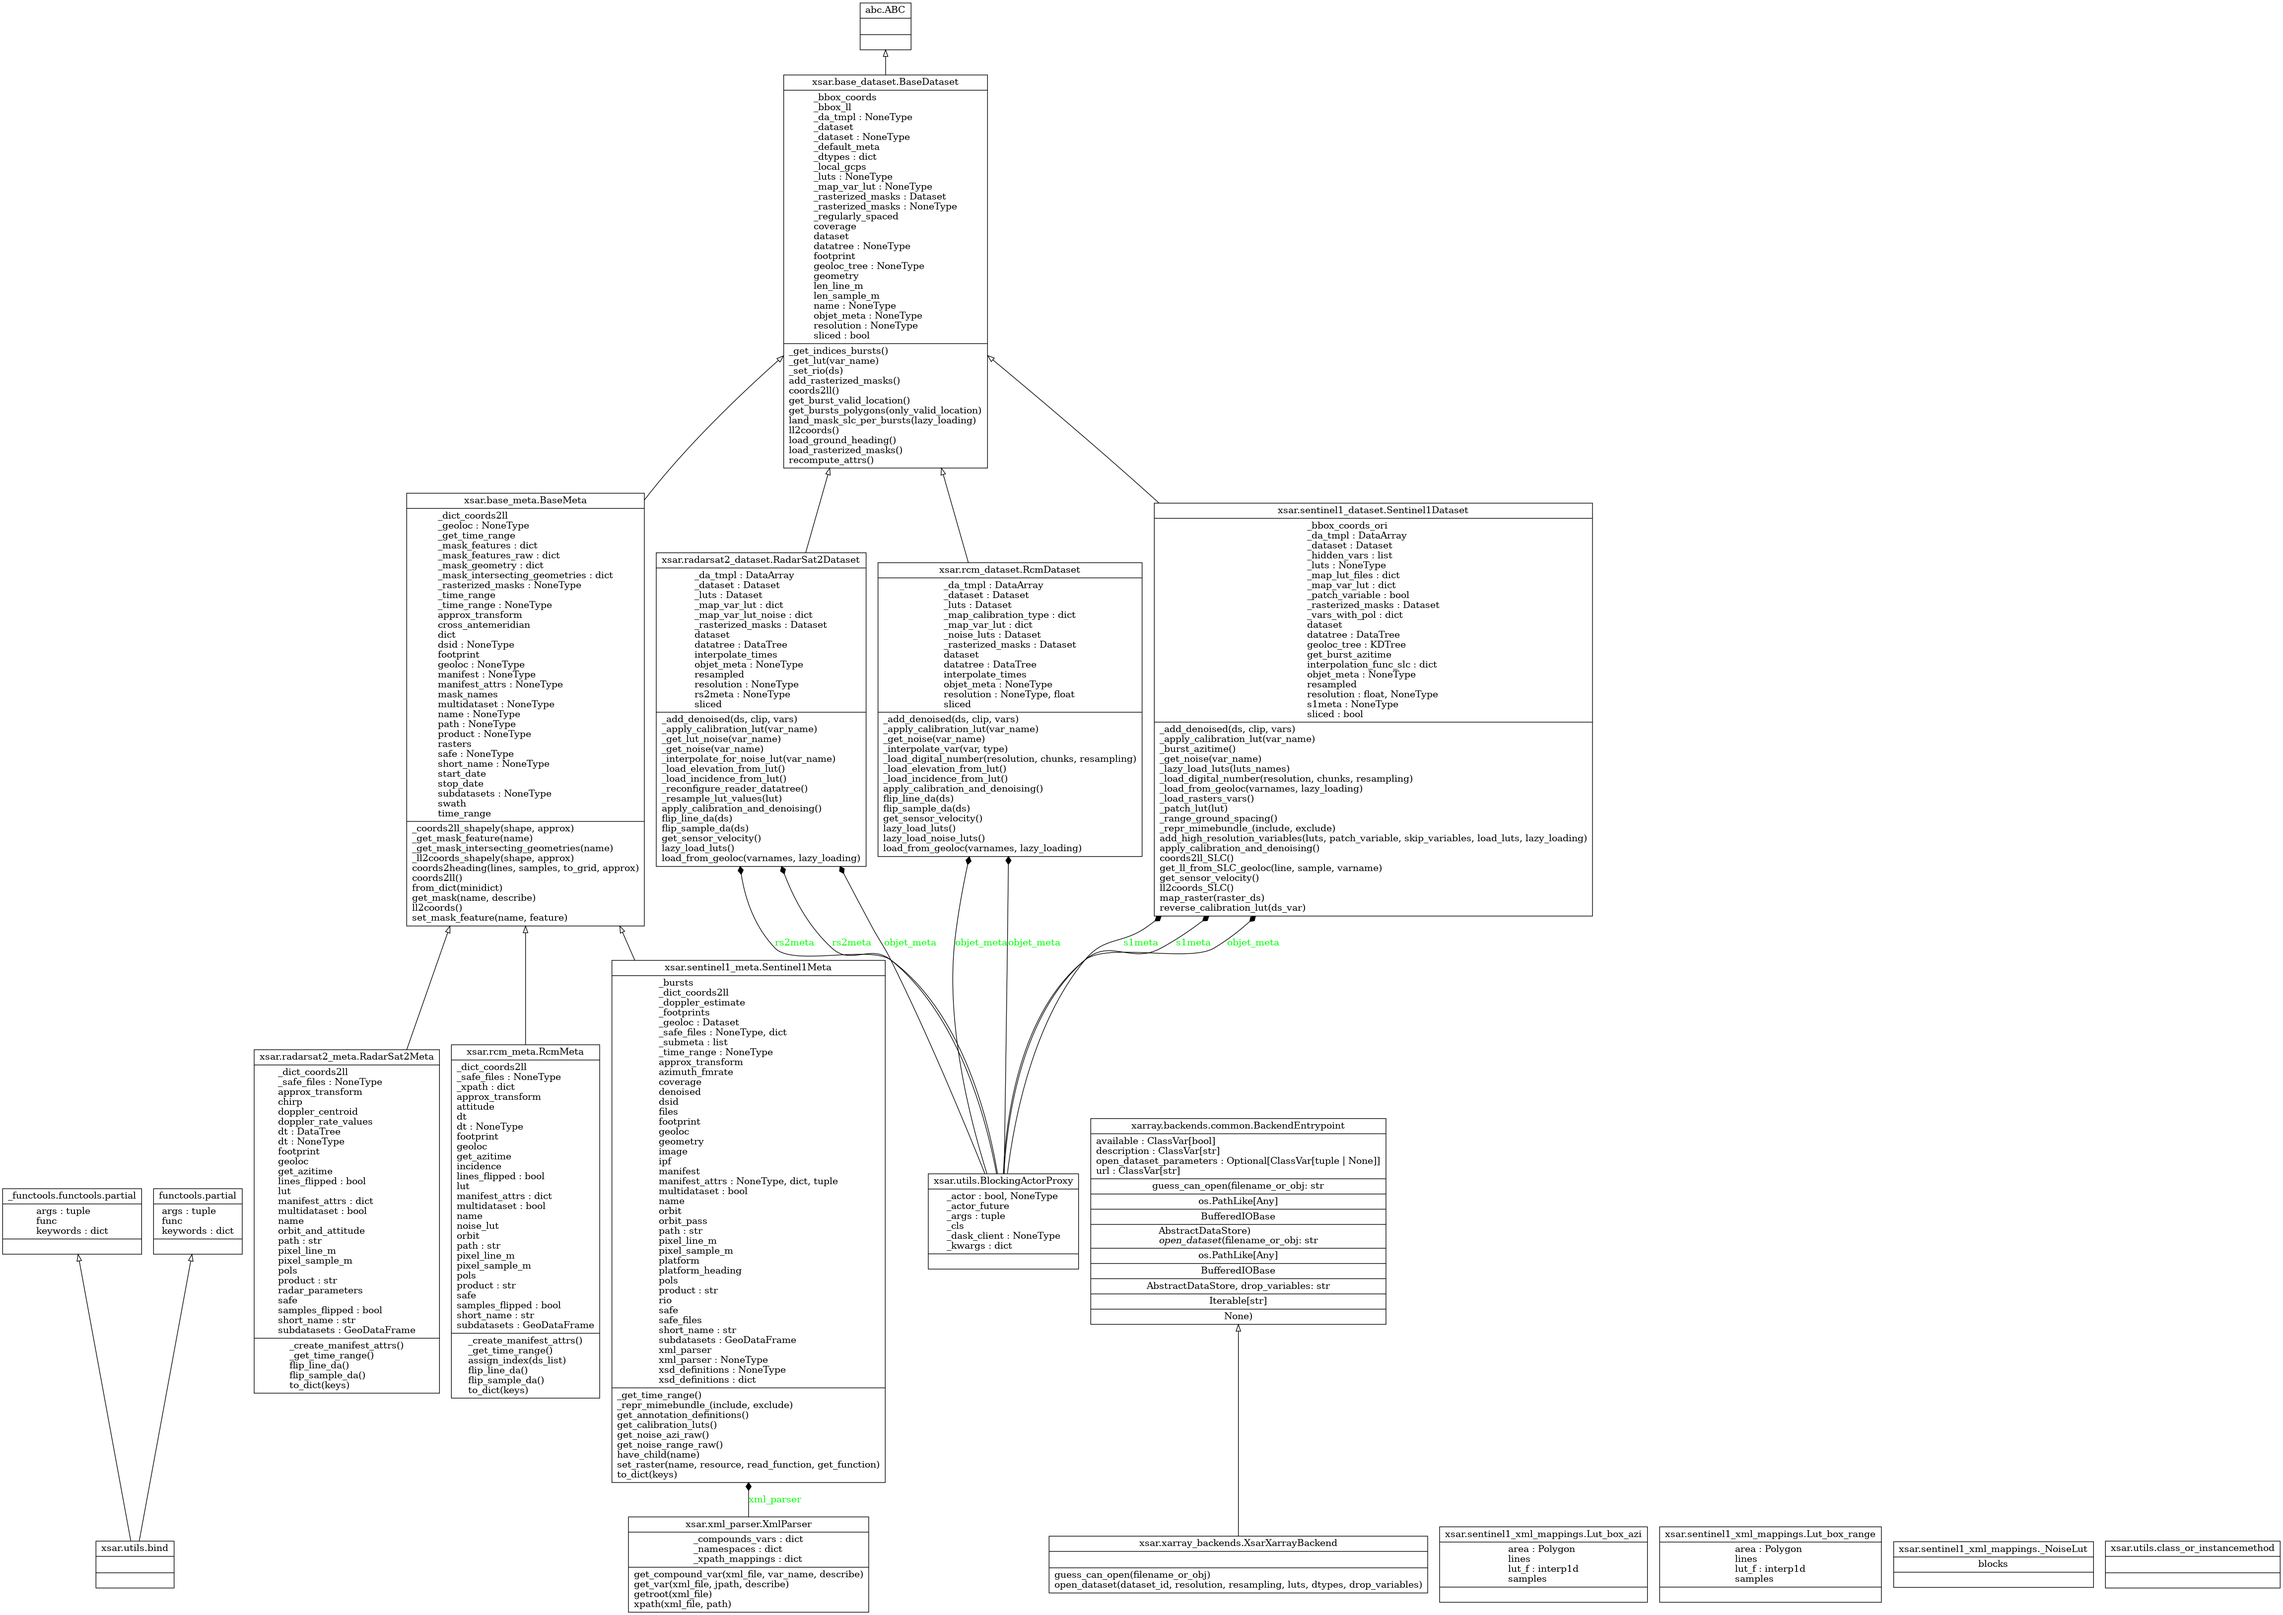
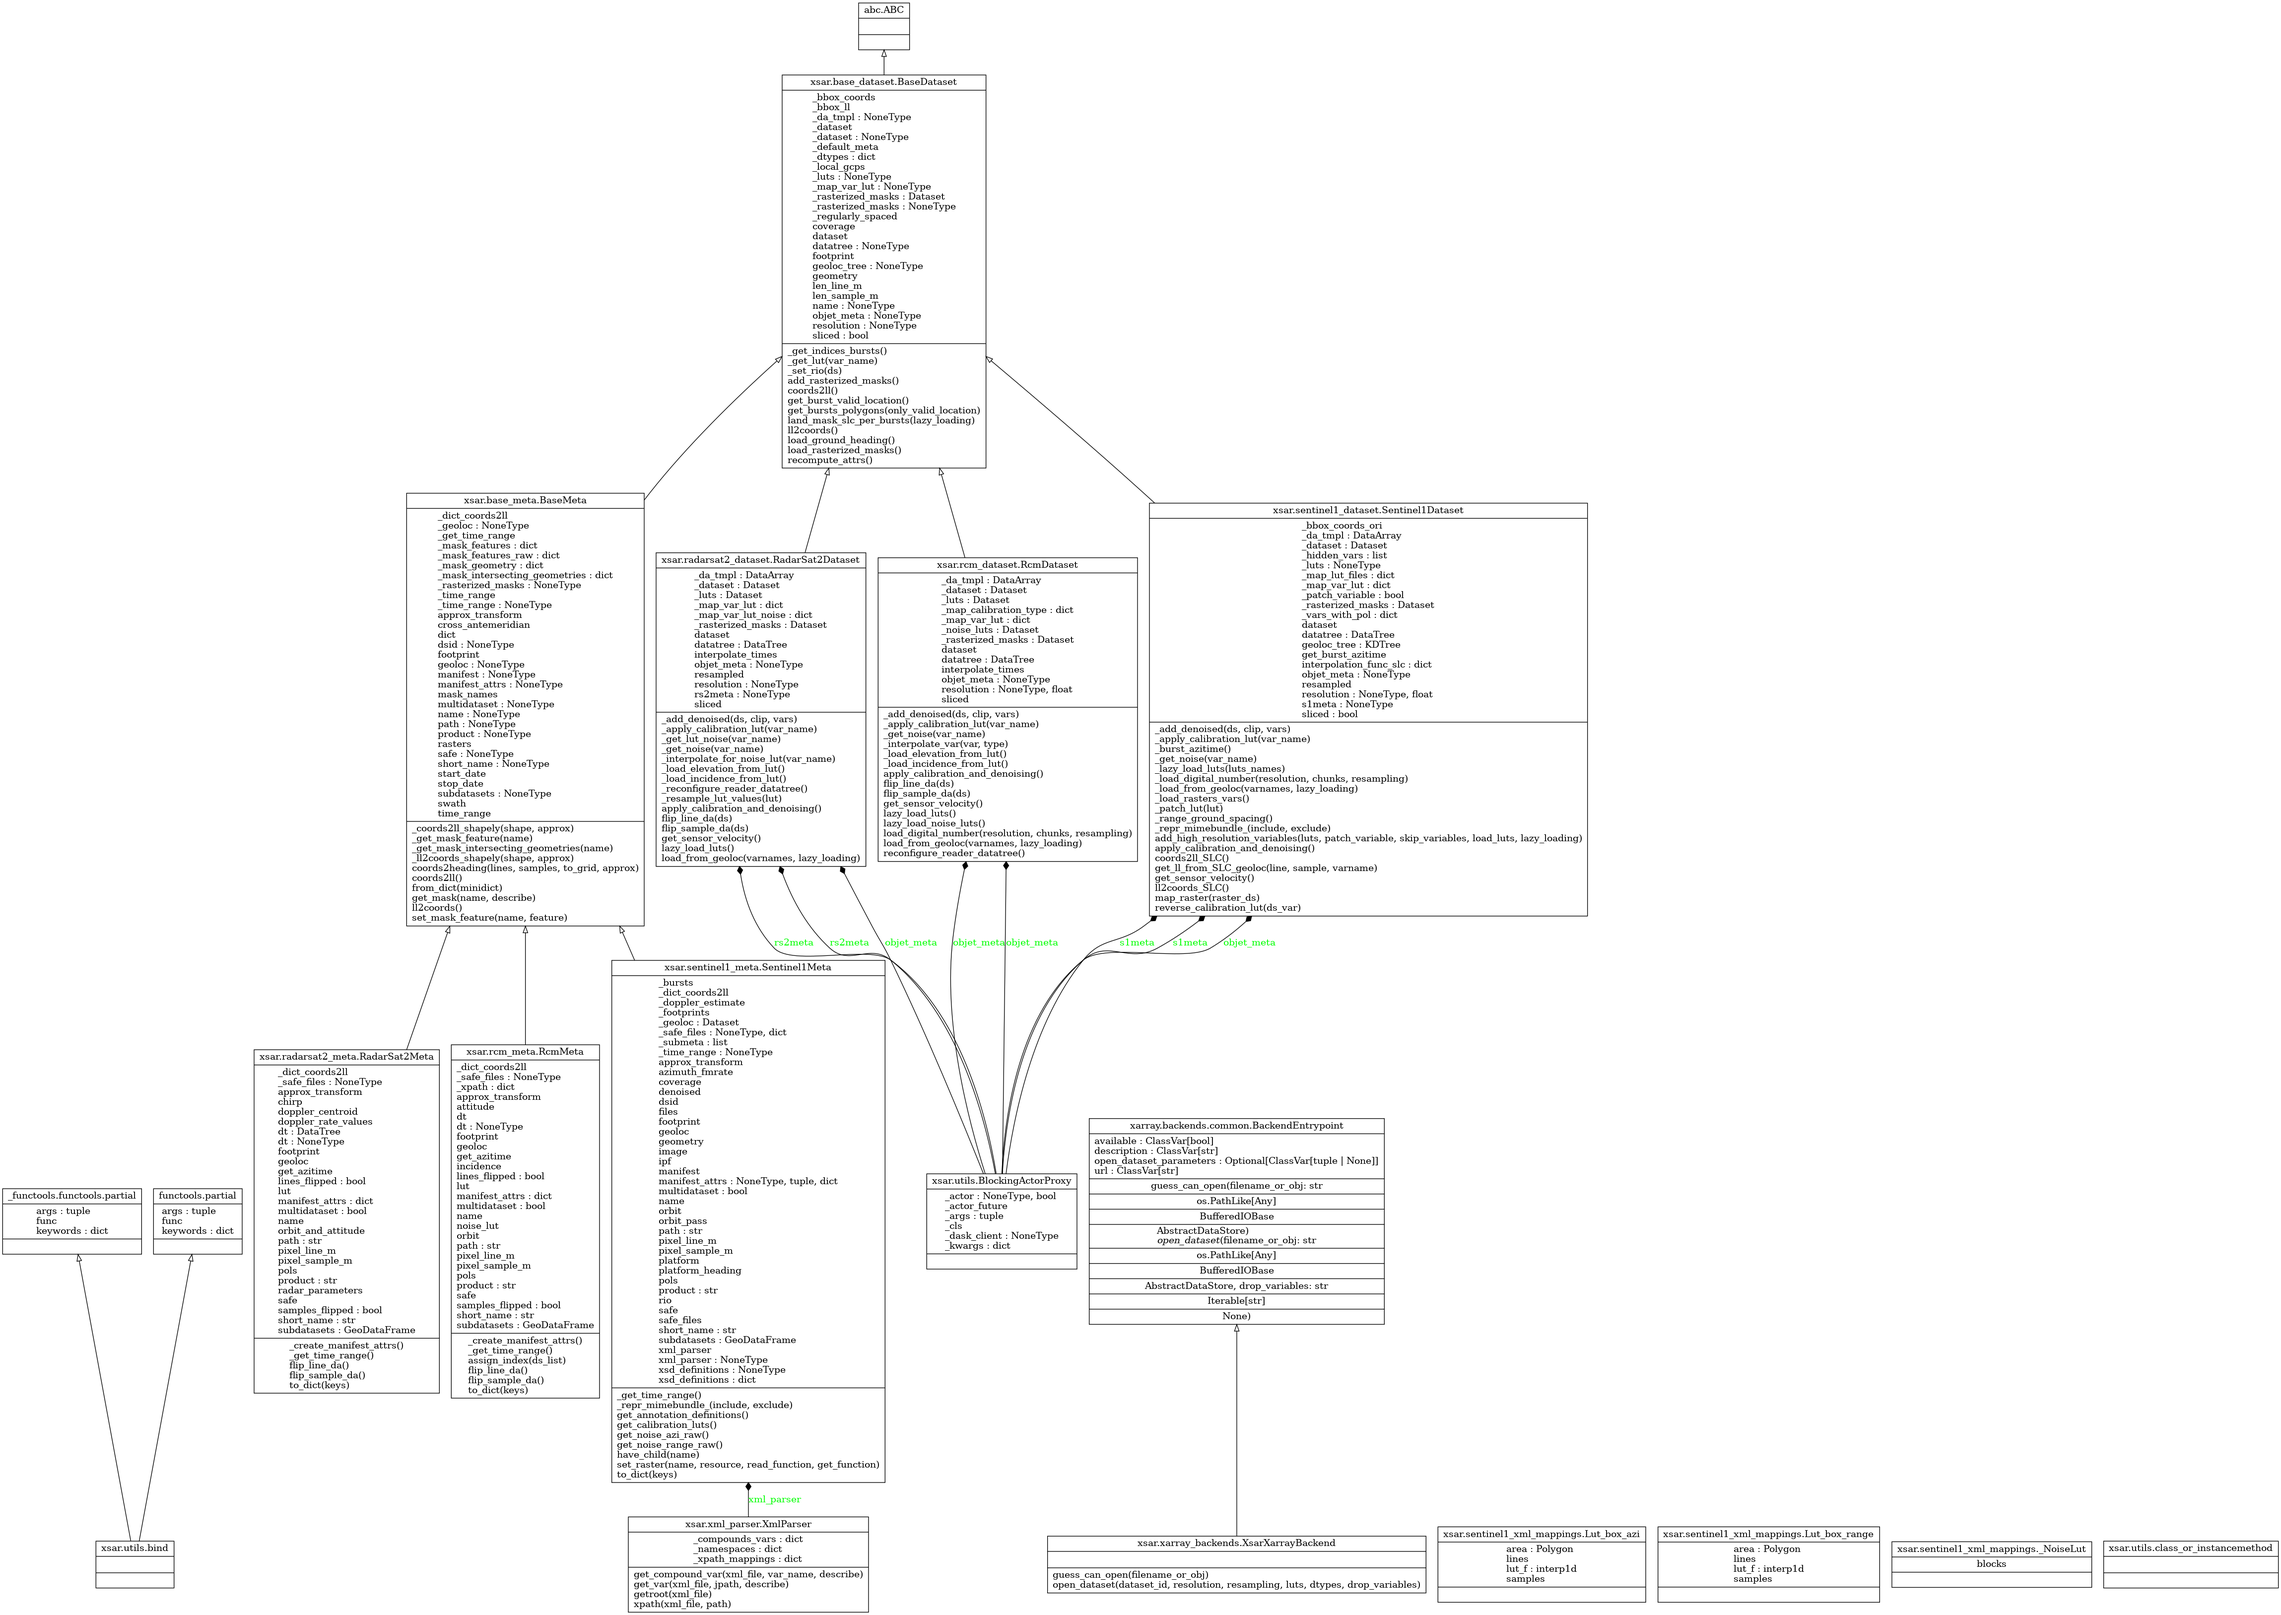
Merge reader's datatree in RcmDataset.datatree

diff --git a/src/xsar/rcm_dataset.py b/src/xsar/rcm_dataset.py
@@ -215,6 +215,8 @@ class RcmDataset(BaseDataset):
         self._rasterized_masks = self.load_rasterized_masks()
         self._dataset = xr.merge([self._rasterized_masks, self._dataset])
         self.datatree['measurement'] = self.datatree['measurement'].assign(self._dataset)
+        # merge the datatree with the reader
+        self.reconfigure_reader_datatree()
 
     def lazy_load_luts(self):
         """
@@ -809,6 +811,16 @@ class RcmDataset(BaseDataset):
         else:
             new_ds = ds.copy()
         return new_ds
+
+    def reconfigure_reader_datatree(self):
+        """
+        Merge self.datatree with the reader's one.
+        Merge attributes of the reader's datatree in the attributes of self.datatree
+        """
+        for group in self.objet_meta.dt:
+            self.datatree[group] = self.objet_meta.dt[group]
+        self.datatree.attrs |= self.objet_meta.dt.attrs
+        return
 
     @property
     def dataset(self):
